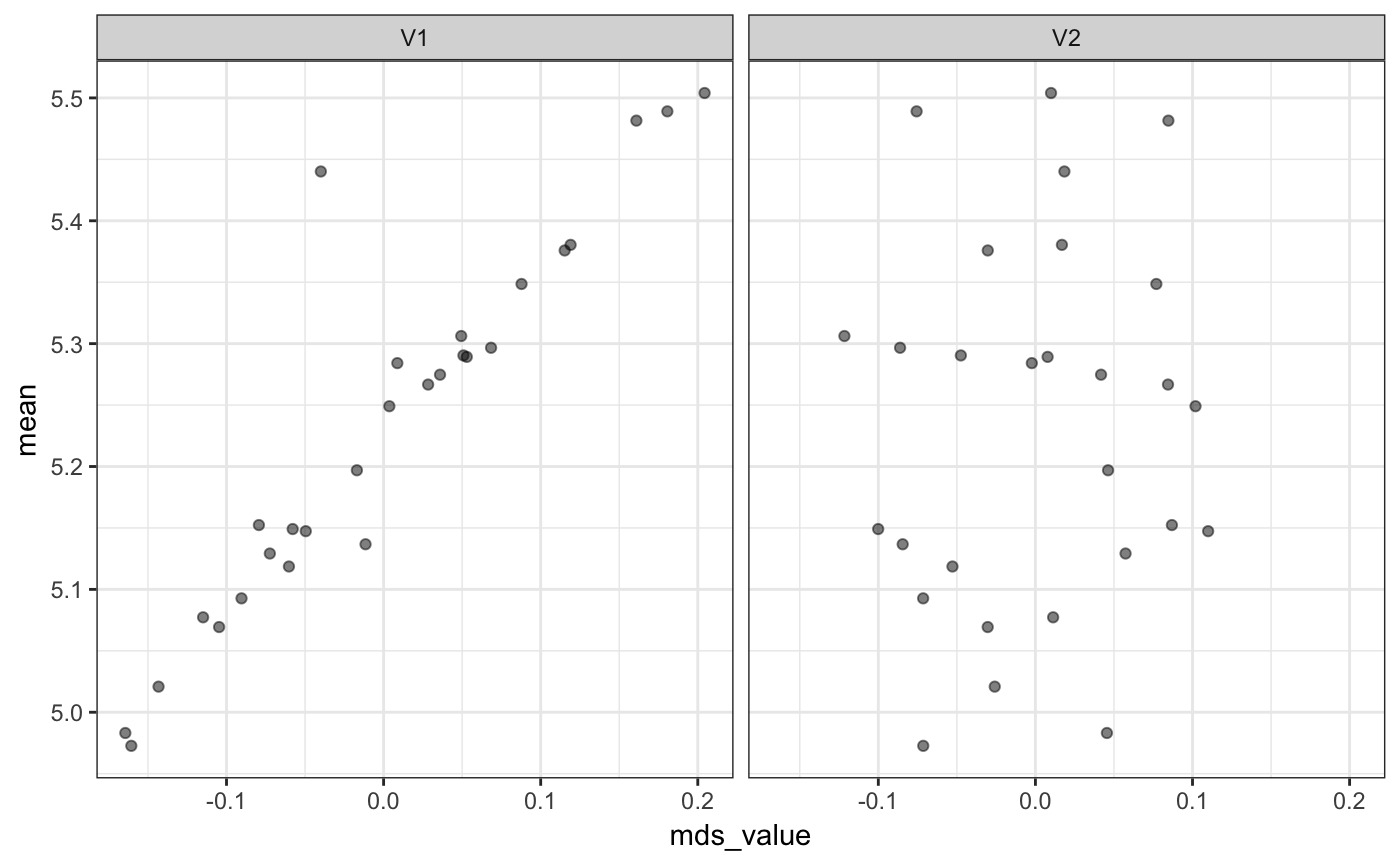
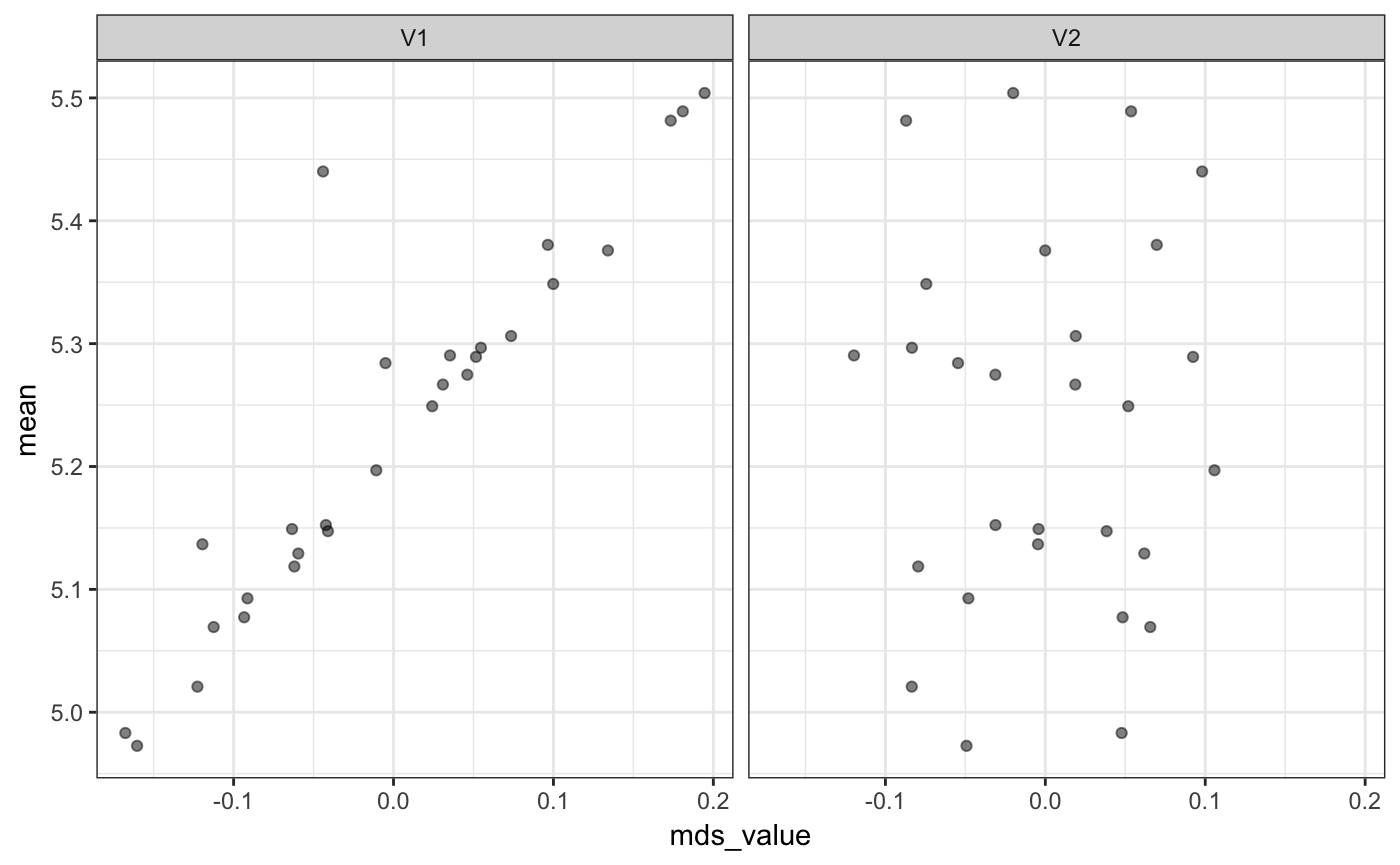
and more badges

diff --git a/docs/articles/Applications/Tensorflow.html b/docs/articles/Applications/Tensorflow.html
@@ -107,20 +107,20 @@
 <div class="sourceCode" id="cb6"><pre class="sourceCode r"><code class="sourceCode r"><a class="sourceLine" id="cb6-1" data-line-number="1">linear_coef &lt;-<span class="st"> </span><span class="kw">tidy</span>(tf_linear, <span class="dt">number =</span> <span class="dv">2</span>)</a>
 <a class="sourceLine" id="cb6-2" data-line-number="2">linear_coef</a></code></pre></div>
 <pre><code>## # A tibble: 29 x 12
-##       emb01   emb02    emb03    emb04  emb05    emb06   emb07  emb08
-##       &lt;dbl&gt;   &lt;dbl&gt;    &lt;dbl&gt;    &lt;dbl&gt;  &lt;dbl&gt;    &lt;dbl&gt;   &lt;dbl&gt;  &lt;dbl&gt;
-##  1  0.0231  -0.0120 -0.00825 -0.0268  0.0260  0.0256  -0.0141 0.0357
-##  2 -0.0517  -0.110   0.0632  -0.0375  0.0555  0.0436  -0.0823 0.115 
-##  3 -0.0799  -0.159   0.0180  -0.0190  0.0828  0.0644  -0.0657 0.110 
-##  4 -0.0224  -0.0620  0.0235   0.0269  0.0672 -0.00305 -0.0200 0.0714
-##  5 -0.0527  -0.0876  0.0158  -0.00549 0.0213  0.0347  -0.0193 0.0936
-##  6 -0.0462  -0.183   0.0889  -0.0267  0.0713 -0.0124  -0.0588 0.147 
-##  7 -0.0348  -0.270   0.112   -0.0372  0.0828  0.0349  -0.0558 0.156 
-##  8 -0.0394  -0.168   0.0815   0.0265  0.0571  0.0461  -0.0239 0.136 
-##  9  0.00481 -0.126   0.0797   0.0229  0.0178 -0.0168  -0.0506 0.0523
-## 10 -0.0637  -0.154   0.0447  -0.0384  0.125   0.0611  -0.0867 0.0692
-## # ... with 19 more rows, and 4 more variables: emb09 &lt;dbl&gt;, emb10 &lt;dbl&gt;,
-## #   level &lt;chr&gt;, terms &lt;chr&gt;</code></pre>
+##     emb01  emb02    emb03  emb04    emb05   emb06   emb07   emb08    emb09
+##     &lt;dbl&gt;  &lt;dbl&gt;    &lt;dbl&gt;  &lt;dbl&gt;    &lt;dbl&gt;   &lt;dbl&gt;   &lt;dbl&gt;   &lt;dbl&gt;    &lt;dbl&gt;
+##  1 0.0182 0.0491 -0.0475  0.0270 -0.00214 -0.0463  0.0205  0.0183 -2.84e-2
+##  2 0.137  0.102  -0.0805  0.0980  0.00958 -0.0988 -0.0527  0.0714 -6.53e-2
+##  3 0.170  0.122  -0.0857  0.132  -0.0300  -0.176  -0.0286 -0.0209 -8.69e-2
+##  4 0.0806 0.0774 -0.00667 0.153  -0.0454  -0.0424 -0.0796  0.0495 -4.56e-2
+##  5 0.114  0.0879 -0.0123  0.113  -0.0188  -0.104  -0.0392  0.0177 -1.82e-2
+##  6 0.210  0.0993 -0.0899  0.158  -0.0406  -0.160  -0.0581 -0.0118 -8.55e-2
+##  7 0.206  0.106  -0.103   0.206   0.0177  -0.222  -0.134   0.0385 -5.01e-2
+##  8 0.154  0.105  -0.117   0.176   0.0214  -0.133  -0.0457  0.0428 -3.42e-4
+##  9 0.136  0.125  -0.00981 0.124  -0.00811 -0.0983 -0.0124 -0.0267 -5.17e-2
+## 10 0.104  0.115  -0.0991  0.183   0.00121 -0.152  -0.0698 -0.0284 -7.78e-2
+## # ... with 19 more rows, and 3 more variables: emb10 &lt;dbl&gt;, level &lt;chr&gt;,
+## #   terms &lt;chr&gt;</code></pre>
 <div class="sourceCode" id="cb8"><pre class="sourceCode r"><code class="sourceCode r"><a class="sourceLine" id="cb8-1" data-line-number="1">linear_coef &lt;-<span class="st"> </span>linear_coef <span class="op">%&gt;%</span></a>
 <a class="sourceLine" id="cb8-2" data-line-number="2"><span class="st">  </span>dplyr<span class="op">::</span><span class="kw"><a href="http://dplyr.tidyverse.org/reference/select.html">rename</a></span>(<span class="dt">Neighborhood =</span> level) <span class="op">%&gt;%</span><span class="st"> </span></a>
 <a class="sourceLine" id="cb8-3" data-line-number="3"><span class="st">  </span><span class="kw">inner_join</span>(means, <span class="dt">by =</span> <span class="st">"Neighborhood"</span>)</a></code></pre></div>
@@ -130,7 +130,7 @@
 <a class="sourceLine" id="cb9-3" data-line-number="3"><span class="st">  </span><span class="kw">cor</span>()</a>
 <a class="sourceLine" id="cb9-4" data-line-number="4">linear_cor[<span class="op">-</span><span class="dv">11</span>,<span class="dv">11</span>]</a></code></pre></div>
 <pre><code>## emb01 emb02 emb03 emb04 emb05 emb06 emb07 emb08 emb09 emb10 
-## -0.54 -0.72  0.49 -0.36  0.52  0.29 -0.43  0.61  0.58  0.40</code></pre>
+##  0.63  0.40 -0.62  0.53  0.33 -0.69 -0.70 -0.20 -0.25 -0.41</code></pre>
 <p>However, this has induced some between-predictor correlations.</p>
 <p><a href="https://en.wikipedia.org/wiki/Multidimensional_scaling">Multidimensional scaling</a> is used to see if there is any information in the data that is associated with the outcome:</p>
 <div class="sourceCode" id="cb11"><pre class="sourceCode r"><code class="sourceCode r"><a class="sourceLine" id="cb11-1" data-line-number="1">lin_mds &lt;-<span class="st"> </span>linear_coef <span class="op">%&gt;%</span><span class="st"> </span></a>
@@ -168,7 +168,7 @@
 <a class="sourceLine" id="cb14-3" data-line-number="3"><span class="st">  </span><span class="kw">cor</span>()</a>
 <a class="sourceLine" id="cb14-4" data-line-number="4">nlin_cor[<span class="op">-</span><span class="dv">11</span>,<span class="dv">11</span>]</a></code></pre></div>
 <pre><code>## emb01 emb02 emb03 emb04 emb05 emb06 emb07 emb08 emb09 emb10 
-##  0.64 -0.28 -0.52 -0.56  0.31 -0.32  0.75  0.21 -0.61  0.91</code></pre>
+## -0.77 -0.63  0.62 -0.71 -0.65 -0.86 -0.33 -0.32 -0.49 -0.75</code></pre>
 <div class="sourceCode" id="cb16"><pre class="sourceCode r"><code class="sourceCode r"><a class="sourceLine" id="cb16-1" data-line-number="1">nlin_mds &lt;-<span class="st"> </span>nlin_coef <span class="op">%&gt;%</span></a>
 <a class="sourceLine" id="cb16-2" data-line-number="2"><span class="st">  </span><span class="co"># dplyr::filter(Neighborhood != "..new") %&gt;% </span></a>
 <a class="sourceLine" id="cb16-3" data-line-number="3"><span class="st">  </span>dplyr<span class="op">::</span><span class="kw"><a href="http://dplyr.tidyverse.org/reference/select.html">select</a></span>(<span class="kw">starts_with</span>(<span class="st">"emb"</span>)) <span class="op">%&gt;%</span></a>
@@ -189,9 +189,9 @@
 <a class="sourceLine" id="cb17-2" data-line-number="2"><span class="st">  </span>dplyr<span class="op">::</span><span class="kw"><a href="http://dplyr.tidyverse.org/reference/filter.html">filter</a></span>(level <span class="op">==</span><span class="st"> "..new"</span>) <span class="op">%&gt;%</span></a>
 <a class="sourceLine" id="cb17-3" data-line-number="3"><span class="st">  </span>dplyr<span class="op">::</span><span class="kw"><a href="http://dplyr.tidyverse.org/reference/select.html">select</a></span>(<span class="kw">starts_with</span>(<span class="st">"emb"</span>))</a></code></pre></div>
 <pre><code>## # A tibble: 1 x 10
-##     emb01   emb02   emb03  emb04  emb05   emb06   emb07   emb08   emb09
-##     &lt;dbl&gt;   &lt;dbl&gt;   &lt;dbl&gt;  &lt;dbl&gt;  &lt;dbl&gt;   &lt;dbl&gt;   &lt;dbl&gt;   &lt;dbl&gt;   &lt;dbl&gt;
-## 1 -0.0302 0.00798 -0.0333 0.0378 0.0338 -0.0482 0.00135 -0.0236 -0.0370
+##      emb01   emb02  emb03   emb04   emb05   emb06  emb07   emb08  emb09
+##      &lt;dbl&gt;   &lt;dbl&gt;  &lt;dbl&gt;   &lt;dbl&gt;   &lt;dbl&gt;   &lt;dbl&gt;  &lt;dbl&gt;   &lt;dbl&gt;  &lt;dbl&gt;
+## 1 -0.00877 -0.0351 0.0478 -0.0119 -0.0209 -0.0376 0.0181 -0.0451 0.0381
 ## # ... with 1 more variable: emb10 &lt;dbl&gt;</code></pre>
   </div>
 

diff --git a/docs/reference/step_tfembed.html b/docs/reference/step_tfembed.html
@@ -110,13 +110,13 @@ scores derived from a tensorflow model via a word-embedding model.
 
     <pre class="usage"><span class='fu'>step_tfembed</span>(<span class='no'>recipe</span>, <span class='no'>...</span>, <span class='kw'>role</span> <span class='kw'>=</span> <span class='fl'>NA</span>, <span class='kw'>trained</span> <span class='kw'>=</span> <span class='fl'>FALSE</span>, <span class='kw'>outcome</span> <span class='kw'>=</span> <span class='kw'>NULL</span>,
   <span class='kw'>number</span> <span class='kw'>=</span> <span class='fl'>2</span>, <span class='kw'>hidden</span> <span class='kw'>=</span> <span class='fl'>0</span>, <span class='kw'>options</span> <span class='kw'>=</span> <span class='fu'>tfembed_control</span>(), <span class='kw'>mapping</span> <span class='kw'>=</span> <span class='kw'>NULL</span>,
-  <span class='kw'>skip</span> <span class='kw'>=</span> <span class='fl'>FALSE</span>)
+  <span class='kw'>history</span> <span class='kw'>=</span> <span class='kw'>NULL</span>, <span class='kw'>skip</span> <span class='kw'>=</span> <span class='fl'>FALSE</span>)
 
 <span class='co'># S3 method for step_tfembed</span>
 <span class='fu'>tidy</span>(<span class='no'>x</span>, <span class='no'>...</span>)
 
-<span class='fu'>tfembed_control</span>(<span class='kw'>loss</span> <span class='kw'>=</span> <span class='st'>"mse"</span>, <span class='kw'>optimizer</span> <span class='kw'>=</span> <span class='st'>"sgd"</span>, <span class='kw'>epochs</span> <span class='kw'>=</span> <span class='fl'>20</span>,
-  <span class='kw'>validation_split</span> <span class='kw'>=</span> <span class='fl'>0</span>, <span class='kw'>batch_size</span> <span class='kw'>=</span> <span class='fl'>32</span>, <span class='kw'>verbose</span> <span class='kw'>=</span> <span class='fl'>0</span>)</pre>
+<span class='fu'>tfembed_control</span>(<span class='kw'>loss</span> <span class='kw'>=</span> <span class='st'>"mse"</span>, <span class='kw'>metrics</span> <span class='kw'>=</span> <span class='kw'>NULL</span>, <span class='kw'>optimizer</span> <span class='kw'>=</span> <span class='st'>"sgd"</span>,
+  <span class='kw'>epochs</span> <span class='kw'>=</span> <span class='fl'>20</span>, <span class='kw'>validation_split</span> <span class='kw'>=</span> <span class='fl'>0</span>, <span class='kw'>batch_size</span> <span class='kw'>=</span> <span class='fl'>32</span>, <span class='kw'>verbose</span> <span class='kw'>=</span> <span class='fl'>0</span>)</pre>
     
     <h2 class="hasAnchor" id="arguments"><a class="anchor" href="#arguments"></a>Arguments</h2>
     <table class="ref-arguments">
@@ -170,6 +170,11 @@ encoding. This is <code>NULL</code> until the step is trained by
 <code><a href='http://www.rdocumentation.org/packages/recipes/topics/prep'>recipes::prep.recipe()</a></code>.</p></td>
     </tr>
     <tr>
+      <th>history</th>
+      <td><p>A tibble with the convergence statistics for each term. This
+is <code>NULL</code> until the step is trained by <code><a href='http://www.rdocumentation.org/packages/recipes/topics/prep'>recipes::prep.recipe()</a></code>.</p></td>
+    </tr>
+    <tr>
       <th>skip</th>
       <td><p>A logical. Should the step be skipped when the
 recipe is baked by <code><a href='http://www.rdocumentation.org/packages/recipes/topics/bake'>recipes::bake.recipe()</a></code>? While all operations are baked
@@ -183,7 +188,7 @@ the computations for subsequent operations</p></td>
       <td><p>A <code>step_tfembed</code> object.</p></td>
     </tr>
     <tr>
-      <th>optimizer, loss</th>
+      <th>optimizer, loss, metrics</th>
       <td><p>Arguments to pass to <code><a href='http://www.rdocumentation.org/packages/keras/topics/compile'>keras::compile()</a></code></p></td>
     </tr>
     <tr>
@@ -217,27 +222,29 @@ given in the recipe step.</p>
 used in the last layer while softmax is used for factor outcomes
 (with any number of levels).</p>
 <p>For example, the <code>keras</code> code for a numeric outcome and no hidden units used
-here would be</p><pre>  keras_model_sequential() %&gt;% 
+here would be</p><pre>  keras_model_sequential() \%&gt;\% 
   layer_embedding(
     input_dim = num_factor_levels_x + 1,
     output_dim = number,
     input_length = 1
-  ) %&gt;%
-  layer_flatten() %&gt;%
+  ) \%&gt;\%
+  layer_flatten() \%&gt;\%
   layer_dense(units = 1, activation = 'linear')
 </pre>
     <p>If a factor outcome is used and 10 hidden units were requested, the code
-would be</p><pre>  keras_model_sequential() %&gt;% 
+would be</p><pre>  keras_model_sequential() \%&gt;\% 
   layer_embedding(
     input_dim = num_factor_levels_x + 1,
     output_dim = number,
     input_length = 1
-   ) %&gt;%
-  layer_flatten() %&gt;%
-  layer_dense(units = 10, activation = "relu") %&gt;%
+   ) \%&gt;\%
+  layer_flatten() \%&gt;\%
+  layer_dense(units = 10, activation = "relu") \%&gt;\%
   layer_dense(units = num_factor_levels_y, activation = 'softmax')
 </pre>
-    <p>Also note that it may be difficult to obtain reproducible results using this step due to the nature of Tensorflow (see link in References).</p>
+    <p>Also note that it may be difficult to obtain reproducible
+results using this step due to the nature of Tensorflow (see
+link in References).</p>
 <p>tensorflow models cannot be run in parallel within the same
 session (via <code>foreach</code>) or the <code>parallel</code> package. If using a
 recipes with this step with <code>caret</code>, avoid parallel processing.</p>
@@ -245,7 +252,8 @@ recipes with this step with <code>caret</code>, avoid parallel processing.</p>
     <h2 class="hasAnchor" id="references"><a class="anchor" href="#references"></a>References</h2>
 
     <p>Francois C and Allaire JJ (2018) <em>Deep Learning with R</em>, Manning</p>
-<p>"How can I obtain reproducible results using Keras during development?" <a href='https://tinyurl.com/keras-repro'>https://tinyurl.com/keras-repro</a></p>
+<p>"How can I obtain reproducible results using Keras during development?"
+<a href='https://tinyurl.com/keras-repro'>https://tinyurl.com/keras-repro</a></p>
     
 
     <h2 class="hasAnchor" id="examples"><a class="anchor" href="#examples"></a>Examples</h2>

diff --git a/docs/index.html b/docs/index.html
@@ -58,8 +58,9 @@
       </header><div class="row">
   <div class="contents col-md-9">
     
+<p><a href="https://travis-ci.org/topepo/embed"><img src="https://travis-ci.org/topepo/embed.svg?branch=master" alt="Travis build status"></a> <a href="https://codecov.io/github/tidymodels/embed?branch=master"><img src="https://codecov.io/gh/topepo/embed/branch/master/graph/badge.svg" alt="Coverage status"></a> <a href="http://cran.r-project.org/web/packages/embed"><img src="http://www.r-pkg.org/badges/version/embed" alt="CRAN_Status_Badge"></a> <a href="http://cran.rstudio.com/package=embed"><img src="http://cranlogs.r-pkg.org/badges/embed" alt="Downloads"></a> <img src="https://img.shields.io/badge/lifecycle-experimental-orange.svg"></p>
 <p><code>embed</code> is a package that contains extra steps for the <a href="http://cran.rstudio.com/package=recipes"><code>recipes</code></a> package for embedding categorical predictors into one or more numeric columns. All of the preprocessing methods are <em>supervised</em>.</p>
-<p>These steps are contained in a separate package because the package dependencies, <a href="http://cran.rstudio.com/package=%20rstanarm"><code>rstanarm</code></a> and <a href="http://cran.rstudio.com/package=%20keras"><code>keras</code></a>, are fairly heavy.</p>
+<p>These steps are contained in a separate package because the package dependencies, <a href="http://cran.rstudio.com/package=rstanarm"><code>rstanarm</code></a> and <a href="http://cran.rstudio.com/package=keras"><code>keras</code></a>, are fairly heavy.</p>
 <p>The steps included are:</p>
 <ul>
 <li><p><code>step_embed</code> estimates the effect of each of the factor levels on the outcome and these estimates are used as the new encoding. The estimates are estimated by a generalized linear model. This step can be executed without pooling (via <code>glm</code>) or with partial pooling (<code>stan_glm</code>). Currently implemented for numeric and two-class outcomes.</p></li>
@@ -68,7 +69,7 @@
 <p>Some references for these methods are:</p>
 <ul>
 <li>Francois C and Allaire JJ (2018) <a href="https://www.manning.com/books/deep-learning-with-r"><em>Deep Learning with R</em></a>, Manning</li>
-<li>Guo, C and Berkhahn F (2106) “<a href="https://arxiv.org/abs/1604.06737">Entity Embeddings of Categorical Variables</a>”</li>
+<li>Guo, C and Berkhahn F (2016) “<a href="https://arxiv.org/abs/1604.06737">Entity Embeddings of Categorical Variables</a>”</li>
 <li>Zumel N and Mount J (2017) “<a href="https://arxiv.org/abs/1611.09477"><code>vtreat</code>: a <code>data.frame</code> Processor for Predictive Modeling</a>”</li>
 </ul>
 <p>To install it, use:</p>
@@ -81,7 +82,7 @@
     <div class="links">
 <h2>Links</h2>
 <ul class="list-unstyled">
-<li>Report a bug at <br><a href="NA">NA</a>
+<li>Report a bug at <br><a href="https://github.com/topepo/embed/issues">https://github.com/topepo/embed/issues</a>
 </li>
 </ul>
 </div>
